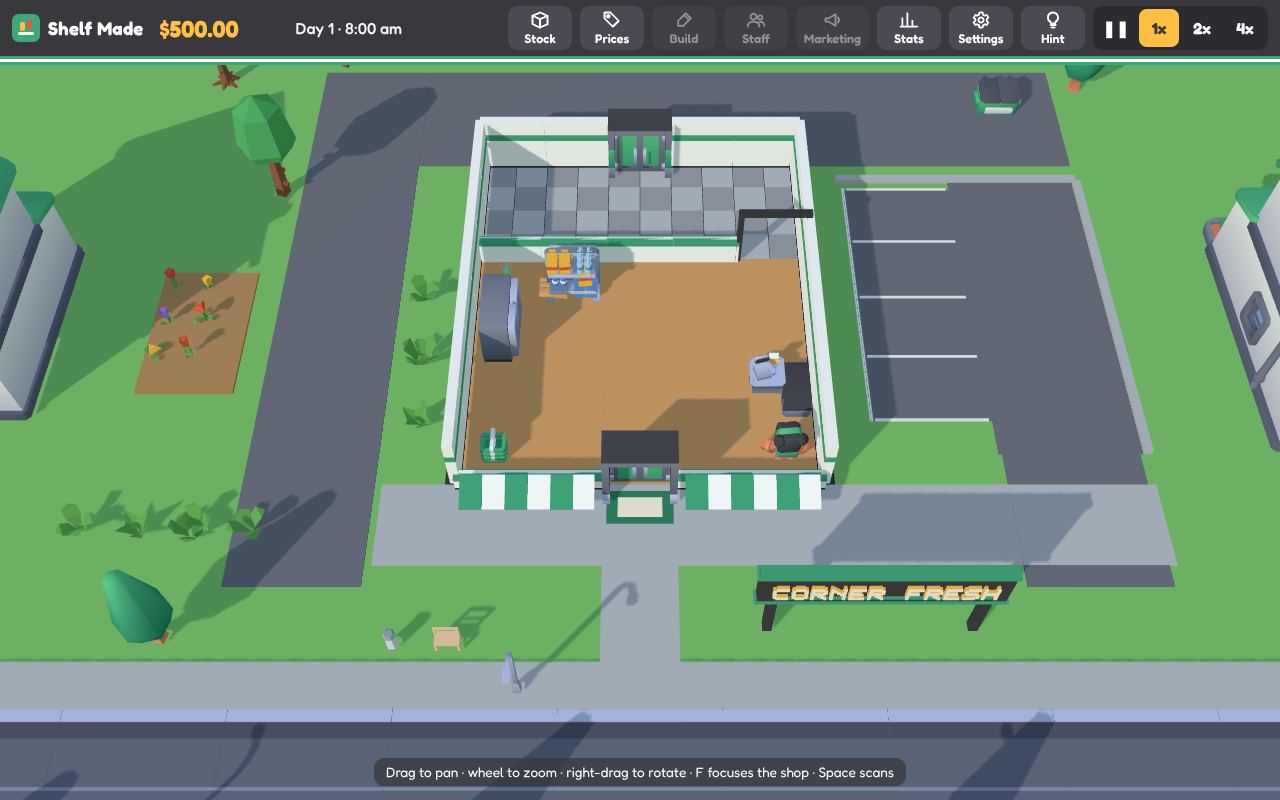
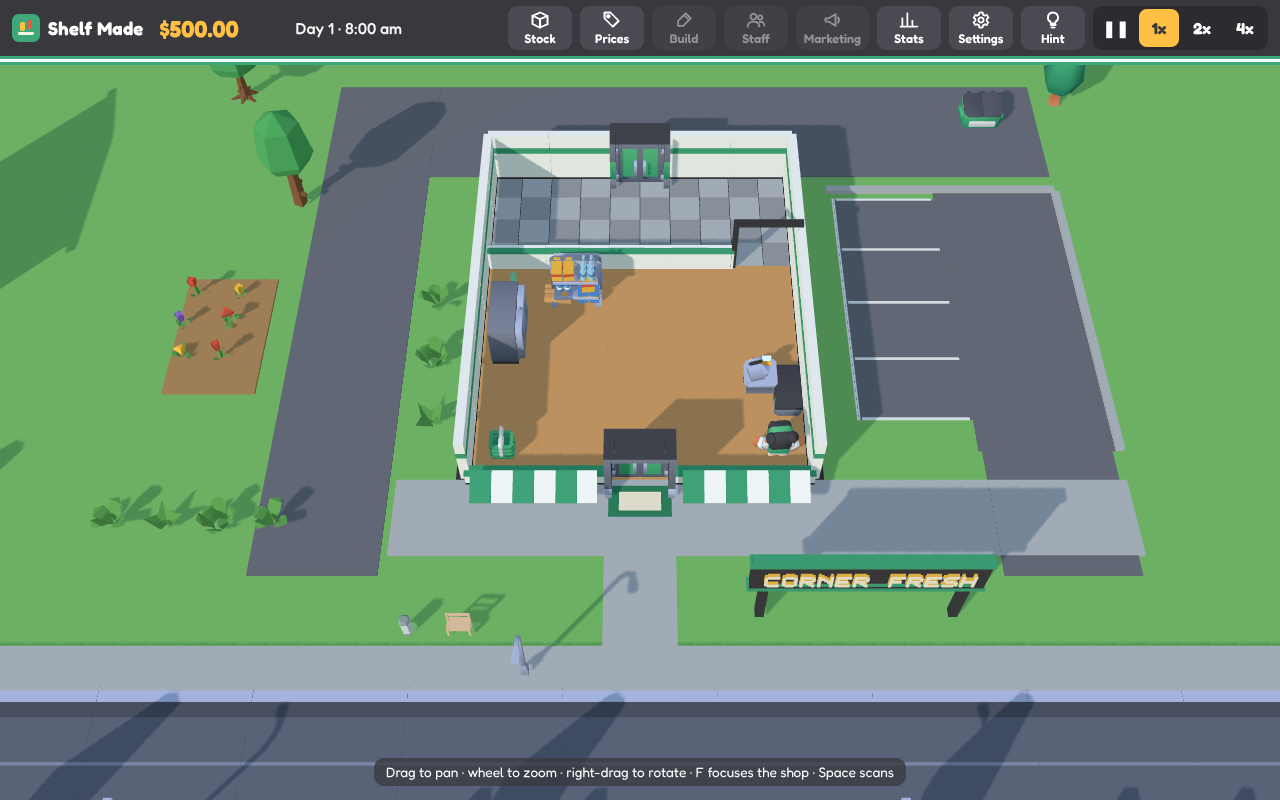
Town spacing for large lots, hint hides under toasts, three more checklist screens, default camera a touch wider
Claude-Session: https://claude.ai/code/session_01Wj1shrqUFcS7dz22DFHo5W

diff --git a/e2e/shots.spec.ts b/e2e/shots.spec.ts
@@ -74,6 +74,36 @@ test.describe('screenshots', () => {
     await page.screenshot({ path: out('13-rival-sale') });
     await hooks(page, 'focusStore');
 
+    // Staff on the floor, an expanded shop with a doubled lot, and a franchise branch.
+    await page.evaluate(() => {
+      const h = (window as unknown as { __shelf: { state: () => { staffPool: { id: number; role: string }[] }; dispatch: (c: unknown) => unknown } }).__shelf;
+      for (const role of ['cashier', 'stocker', 'cleaner']) { const c = h.state().staffPool.find((x) => x.role === role); if (c) h.dispatch({ type: 'hire', candidateId: c.id }); }
+    });
+    await hooks(page, 'dispatch', { type: 'cheat', cash: 20000 });
+    await hooks(page, 'advanceScan', 60, 3);
+    await hooks(page, 'focusStore');
+    await settle(page, 700);
+    await page.screenshot({ path: out('14-staff-on-floor') });
+    await hooks(page, 'dispatch', { type: 'expandShop', sizeId: 'large' });
+    await hooks(page, 'dispatch', { type: 'expandLot' });
+    for (const [x, z, t] of [[-1.5, -5, 'shelf'], [0.5, -5, 'shelf'], [2.5, -5, 'produce'], [-3.5, -3, 'fridge'], [-1.5, -3, 'endcap'], [0.5, -3, 'shelf'], [2.5, -3, 'shelf']] as [number, number, string][]) await hooks(page, 'dispatch', { type: 'placeFixture', fixtureType: t, x, z, rot: 0 });
+    await hooks(page, 'crowd', 8);
+    await hooks(page, 'advanceScan', 40, 3);
+    await hooks(page, 'camera', 1, -3.2, 24, 0, 0.98);
+    await settle(page, 900);
+    await page.screenshot({ path: out('15-expanded-shop') });
+    await page.evaluate(() => {
+      const h = (window as unknown as { __shelf: { state: () => { staffPool: { id: number; role: string }[] }; dispatch: (c: unknown) => unknown } }).__shelf;
+      const s = h.state();
+      if (!s.staffPool.some((c) => c.role === 'manager')) s.staffPool.push({ id: 99999, name: 'Mo Larsen', role: 'manager', skill: 0.8, speed: 1, wage: 95, look: { model: 1, variant: 1, height: 1 } } as never);
+      const m = s.staffPool.find((c) => c.role === 'manager')!;
+      h.dispatch({ type: 'openFranchise', plotId: 'hill', managerId: m.id });
+    });
+    await hooks(page, 'camera', -22, -1, 22, 0.2, 0.95);
+    await settle(page, 1200);
+    await page.screenshot({ path: out('16-franchise-branch') });
+    await hooks(page, 'focusStore');
+
     // Night card.
     await hooks(page, 'advance', 800);
     await settle(page, 500);

diff --git a/src/render/town.ts b/src/render/town.ts
@@ -101,13 +101,14 @@ export function buildTown(seed: number, plotId: string, branchPlots: string[] = 
     house(plot.x - 4, northZ, true, 8);
     house(plot.x + 4, northZ, true, 8);
   }
-  for (const x of [-10.6, 10.6]) house(x, northZ, true, 5.2, false);
+  // Fillers sit far enough out that a market-hall shop with a doubled lot still fits.
+  for (const x of [-13.4, 13.4]) house(x, northZ, true, 5.2, false);
   for (const x of [-33, 33, -41, 41, -48, 48]) house(x, northZ, true, 7);
   // Second row behind, facing away (we only see their backs and roofs).
   for (let x = -46; x <= 46; x += 7.5) {
     if (Math.abs(x + 36) < 2.5 || Math.abs(x - 36) < 2.5) continue;
-    P.push({ model: HOUSES[houseIdx()]!, x: x + rng.range(-0.3, 0.3), z: -12.5, yaw: Math.PI });
-    P.push({ model: TREES[rng.int(0, TREES.length - 1)]!, x: x + 3.4, z: -10.5 + rng.range(-0.5, 0.5), yaw: rng.range(0, 6.28) });
+    P.push({ model: HOUSES[houseIdx()]!, x: x + rng.range(-0.3, 0.3), z: -15.8, yaw: Math.PI });
+    P.push({ model: TREES[rng.int(0, TREES.length - 1)]!, x: x + 3.4, z: -13.6 + rng.range(-0.5, 0.5), yaw: rng.range(0, 6.28) });
   }
 
   // South side: rivals and houses.

diff --git a/src/ui/Overlay.tsx b/src/ui/Overlay.tsx
@@ -81,7 +81,7 @@ export function Overlay({ runtime, snap }: { runtime: GameRuntime; snap: Snapsho
           ) : null}
         </div>
       )}
-      {snap.phase === 'open' && snap.day === 1 && !tip && snap.cash < 1e9 && <div className="hint">Drag to pan · wheel to zoom · right-drag to rotate · F focuses the shop · Space scans</div>}
+      {snap.phase === 'open' && snap.day === 1 && !tip && !snap.toast && <div className="hint">Drag to pan · wheel to zoom · right-drag to rotate · F focuses the shop · Space scans</div>}
     </>
   );
 }

diff --git a/src/app/GameRuntime.ts b/src/app/GameRuntime.ts
@@ -346,7 +346,7 @@ export class GameRuntime {
     const s = this.state; const r = this.renderer;
     if (!s || !r) return;
     const cx = s.shop.originX, cz = s.shop.originZ - 1.4;
-    r.camera.focus(cx, cz, 17.5, 0, 0.98);
+    r.camera.focus(cx, cz, 18.5, 0, 0.98);
     if (snap) r.camera.snap();
   }
 

diff --git a/STATUS.md b/STATUS.md
@@ -42,7 +42,7 @@ an empty repository in this session.
 | Perf (`docs/screens/perf.json`) | draw calls 67 starter / 152 busy at 4x / 163 zoomed out (budget 250); triangles 244k / 289k / 316k; bundle 1.6 MB gzipped (three.js 159 KB, app 45 KB) + 1.8 MB models + 93 KB atlas, well under 15 MB |
 | FPS | SwiftShader software GL in the container gives 10–42 fps, which says nothing about a laptop GPU; the draw-call and triangle counts are the budget that was checked |
 
-Screenshots in `docs/screens/`: `01-lobby`, `02-plot-picker`, `03-first-tip`, `04-shop-default-zoom`, `05-busy-shop`, `06-neighbourhood`, `07-delivery`, `08-night-card`, `09-stock-card`, `10-prices-card`, `11-build-mode`, `12-finance-card`, `13-rival-sale`.
+Screenshots in `docs/screens/`: `01-lobby`, `02-plot-picker`, `03-first-tip`, `04-shop-default-zoom`, `05-busy-shop`, `06-neighbourhood`, `07-delivery`, `08-night-card`, `09-stock-card`, `10-prices-card`, `11-build-mode`, `12-finance-card`, `13-rival-sale`, `14-staff-on-floor`, `15-expanded-shop` (market hall with a doubled lot), `16-franchise-branch`.
 
 Visual checklist, as of the last run: store ≈ 45% of the screen at default zoom with every room readable; no see-through walls; shelves show what they hold and empty shelves are bare; the busy shot has eight distinct people in a line; brand colours; only the top bar is always on; text ≥ 14 px; the neighbourhood is lived in. The night card and docked cards slide the world aside so nothing covers the store.
 
